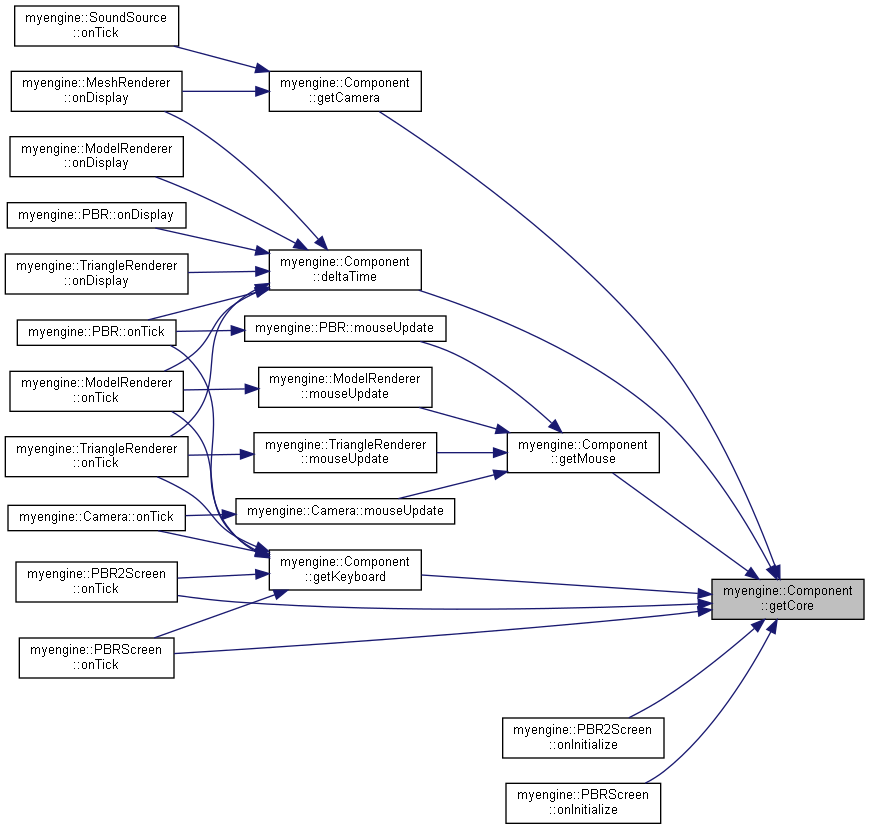
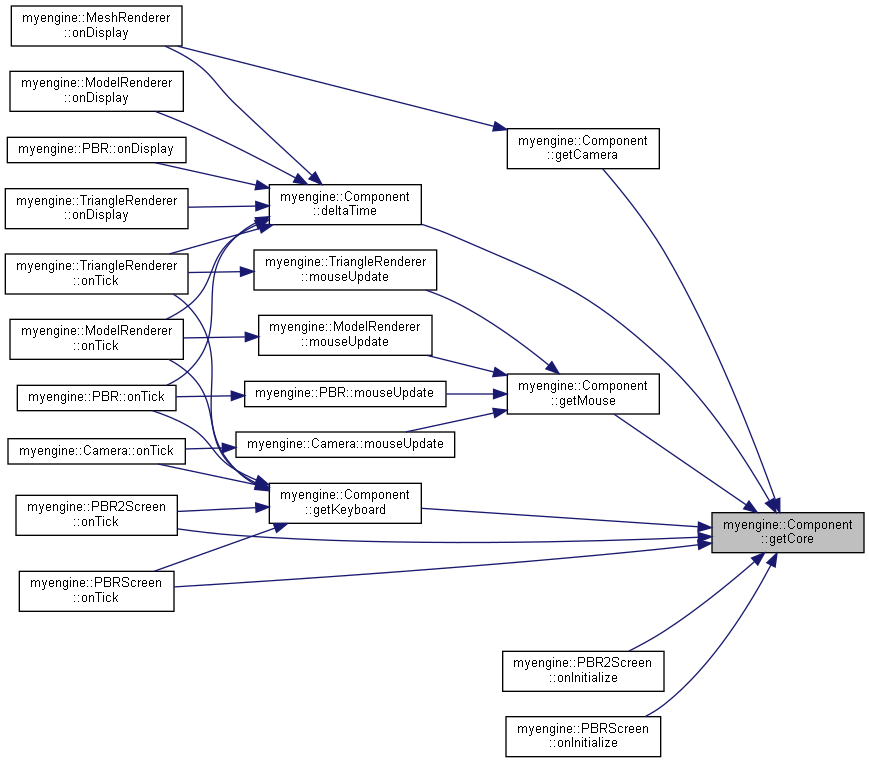
doxygen

diff --git a/doc/html/structmyengine_1_1_component.html b/doc/html/structmyengine_1_1_component.html
@@ -286,28 +286,27 @@ Here is the caller graph for this function:</div>
 <div class="dyncontent">
 <div class="center"><img src="structmyengine_1_1_component_a2b80c2d91dac8f429f6b6f6305d7c5be_icgraph.png" border="0" usemap="#astructmyengine_1_1_component_a2b80c2d91dac8f429f6b6f6305d7c5be_icgraph" alt=""/></div>
 <map name="astructmyengine_1_1_component_a2b80c2d91dac8f429f6b6f6305d7c5be_icgraph" id="astructmyengine_1_1_component_a2b80c2d91dac8f429f6b6f6305d7c5be_icgraph">
-<area shape="rect" title="Returns the Core." alt="" coords="712,579,864,620"/>
-<area shape="rect" href="structmyengine_1_1_component.html#a4e0612b358101d355cfdc455712c5136" title="Returns the deltaTime." alt="" coords="269,249,421,291"/>
-<area shape="rect" href="structmyengine_1_1_component.html#a3c4a94098f91b2602ce73a81d0bc9570" title="Returns the Camera." alt="" coords="269,71,421,112"/>
-<area shape="rect" href="structmyengine_1_1_component.html#a86618ca85aca087c0efa99970b5e095a" title="Returns the Keyboard." alt="" coords="269,549,421,591"/>
-<area shape="rect" href="structmyengine_1_1_p_b_r2_screen.html#af516398eee87a41129a2995677c443e1" title="Updates Screen." alt="" coords="16,561,177,603"/>
-<area shape="rect" href="structmyengine_1_1_p_b_r_screen.html#ad9af1fafe83d5bb4ae5e1fc37d2bc258" title="Updates Screen." alt="" coords="19,637,174,679"/>
-<area shape="rect" href="structmyengine_1_1_component.html#a6e32e07622ba5c510af149403b2176a4" title="Returns the Mouse." alt="" coords="507,432,659,473"/>
-<area shape="rect" href="structmyengine_1_1_p_b_r2_screen.html#a9ec551364dcded0adb868d64594775e6" title="Initialises the Screen." alt="" coords="503,717,664,759"/>
-<area shape="rect" href="structmyengine_1_1_p_b_r_screen.html#a0b32c3e3fd47f1e698b09b5233f15ceb" title="Initialises the Screen." alt="" coords="506,783,661,824"/>
-<area shape="rect" href="structmyengine_1_1_mesh_renderer.html#a3096e07211e99206afc00ef9c867abd3" title="Draws the model." alt="" coords="11,71,182,112"/>
-<area shape="rect" href="structmyengine_1_1_model_renderer.html#a2dab68b27698175ed5deff280184aeba" title="Draws the model." alt="" coords="10,136,183,177"/>
-<area shape="rect" href="structmyengine_1_1_p_b_r.html#a0316ec5798db766d49c8b18237f07878" title="Draws the model." alt="" coords="7,202,186,229"/>
-<area shape="rect" href="structmyengine_1_1_triangle_renderer.html#a6cb4252e76b0c719d3819cc5b6ca86a8" title="Draws the triangle." alt="" coords="5,253,188,295"/>
-<area shape="rect" href="structmyengine_1_1_model_renderer.html#ac1a09170155c3fddfe23ac24334fb689" title="The position of the model." alt="" coords="10,371,183,412"/>
-<area shape="rect" href="structmyengine_1_1_p_b_r.html#ac960a36c2b186613e28284ede02004bd" title="The position of the model." alt="" coords="17,319,176,346"/>
-<area shape="rect" href="structmyengine_1_1_triangle_renderer.html#a8772473eb0f65d036220b3f48f45f8ce" title="The position of the triangle." alt="" coords="5,436,188,477"/>
-<area shape="rect" href="structmyengine_1_1_sound_source.html#aa989aaadb1f186847e4700f5a1c62e8f" title="Updates the sound each frame." alt="" coords="15,5,179,47"/>
-<area shape="rect" href="structmyengine_1_1_camera.html#ab20ef0c683c1e07b8546a3ddf26f262b" title="Updates Camera Position." alt="" coords="8,505,185,531"/>
-<area shape="rect" href="structmyengine_1_1_camera.html#a49c54915080685ce75a9edcbd8f5aa0e" title="Updates Mouse Coordinates." alt="" coords="236,498,455,525"/>
-<area shape="rect" href="structmyengine_1_1_model_renderer.html#a853e29bd0aa9b73004ab46f105fcef20" title="Update mouse position." alt="" coords="259,367,432,408"/>
-<area shape="rect" href="structmyengine_1_1_p_b_r.html#afb06a60ab5f263b8caa91efd1f1285f7" title="Update mouse position." alt="" coords="245,315,446,342"/>
-<area shape="rect" href="structmyengine_1_1_triangle_renderer.html#a3ac2c021a5a1b280a7ef84056049b45a" title="Update mouse position." alt="" coords="254,432,437,473"/>
+<area shape="rect" title="Returns the Core." alt="" coords="712,512,864,553"/>
+<area shape="rect" href="structmyengine_1_1_component.html#a4e0612b358101d355cfdc455712c5136" title="Returns the deltaTime." alt="" coords="269,184,421,225"/>
+<area shape="rect" href="structmyengine_1_1_component.html#a3c4a94098f91b2602ce73a81d0bc9570" title="Returns the Camera." alt="" coords="507,128,659,169"/>
+<area shape="rect" href="structmyengine_1_1_component.html#a86618ca85aca087c0efa99970b5e095a" title="Returns the Keyboard." alt="" coords="269,483,421,524"/>
+<area shape="rect" href="structmyengine_1_1_p_b_r2_screen.html#af516398eee87a41129a2995677c443e1" title="Updates Screen." alt="" coords="16,495,177,536"/>
+<area shape="rect" href="structmyengine_1_1_p_b_r_screen.html#ad9af1fafe83d5bb4ae5e1fc37d2bc258" title="Updates Screen." alt="" coords="19,571,174,612"/>
+<area shape="rect" href="structmyengine_1_1_component.html#a6e32e07622ba5c510af149403b2176a4" title="Returns the Mouse." alt="" coords="507,373,659,415"/>
+<area shape="rect" href="structmyengine_1_1_p_b_r2_screen.html#a9ec551364dcded0adb868d64594775e6" title="Initialises the Screen." alt="" coords="503,651,664,692"/>
+<area shape="rect" href="structmyengine_1_1_p_b_r_screen.html#a0b32c3e3fd47f1e698b09b5233f15ceb" title="Initialises the Screen." alt="" coords="506,716,661,757"/>
+<area shape="rect" href="structmyengine_1_1_mesh_renderer.html#a3096e07211e99206afc00ef9c867abd3" title="Draws the model." alt="" coords="11,5,182,47"/>
+<area shape="rect" href="structmyengine_1_1_model_renderer.html#a2dab68b27698175ed5deff280184aeba" title="Draws the model." alt="" coords="10,71,183,112"/>
+<area shape="rect" href="structmyengine_1_1_p_b_r.html#a0316ec5798db766d49c8b18237f07878" title="Draws the model." alt="" coords="7,137,186,163"/>
+<area shape="rect" href="structmyengine_1_1_triangle_renderer.html#a6cb4252e76b0c719d3819cc5b6ca86a8" title="Draws the triangle." alt="" coords="5,188,188,229"/>
+<area shape="rect" href="structmyengine_1_1_model_renderer.html#ac1a09170155c3fddfe23ac24334fb689" title="The position of the model." alt="" coords="10,319,183,360"/>
+<area shape="rect" href="structmyengine_1_1_p_b_r.html#ac960a36c2b186613e28284ede02004bd" title="The position of the model." alt="" coords="17,385,176,411"/>
+<area shape="rect" href="structmyengine_1_1_triangle_renderer.html#a8772473eb0f65d036220b3f48f45f8ce" title="The position of the triangle." alt="" coords="5,253,188,295"/>
+<area shape="rect" href="structmyengine_1_1_camera.html#ab20ef0c683c1e07b8546a3ddf26f262b" title="Updates Camera Position." alt="" coords="8,438,185,465"/>
+<area shape="rect" href="structmyengine_1_1_camera.html#a49c54915080685ce75a9edcbd8f5aa0e" title="Updates Mouse Coordinates." alt="" coords="236,431,455,458"/>
+<area shape="rect" href="structmyengine_1_1_model_renderer.html#a853e29bd0aa9b73004ab46f105fcef20" title="Update mouse position." alt="" coords="259,315,432,356"/>
+<area shape="rect" href="structmyengine_1_1_p_b_r.html#afb06a60ab5f263b8caa91efd1f1285f7" title="Update mouse position." alt="" coords="245,381,446,407"/>
+<area shape="rect" href="structmyengine_1_1_triangle_renderer.html#a3ac2c021a5a1b280a7ef84056049b45a" title="Update mouse position." alt="" coords="254,249,437,291"/>
 </map>
 </div>
 
@@ -335,30 +334,29 @@ Here is the caller graph for this function:</div>
 <div class="dyncontent">
 <div class="center"><img src="structmyengine_1_1_component_af409385720cc0c533e8812e8857ba161_icgraph.png" border="0" usemap="#astructmyengine_1_1_component_af409385720cc0c533e8812e8857ba161_icgraph" alt=""/></div>
 <map name="astructmyengine_1_1_component_af409385720cc0c533e8812e8857ba161_icgraph" id="astructmyengine_1_1_component_af409385720cc0c533e8812e8857ba161_icgraph">
-<area shape="rect" title="Returns the Entity." alt="" coords="912,309,1064,351"/>
-<area shape="rect" href="structmyengine_1_1_component.html#a2b80c2d91dac8f429f6b6f6305d7c5be" title="Returns the Core." alt="" coords="712,421,864,463"/>
-<area shape="rect" href="structmyengine_1_1_component.html#a2b5712d1253884531aee523c1d277260" title="Returns the Transform." alt="" coords="269,188,421,229"/>
-<area shape="rect" href="structmyengine_1_1_component.html#a4e0612b358101d355cfdc455712c5136" title="Returns the deltaTime." alt="" coords="269,253,421,295"/>
-<area shape="rect" href="structmyengine_1_1_component.html#a3c4a94098f91b2602ce73a81d0bc9570" title="Returns the Camera." alt="" coords="269,71,421,112"/>
-<area shape="rect" href="structmyengine_1_1_component.html#a86618ca85aca087c0efa99970b5e095a" title="Returns the Keyboard." alt="" coords="269,553,421,595"/>
-<area shape="rect" href="structmyengine_1_1_p_b_r2_screen.html#af516398eee87a41129a2995677c443e1" title="Updates Screen." alt="" coords="16,651,177,692"/>
-<area shape="rect" href="structmyengine_1_1_p_b_r_screen.html#ad9af1fafe83d5bb4ae5e1fc37d2bc258" title="Updates Screen." alt="" coords="19,564,174,605"/>
-<area shape="rect" href="structmyengine_1_1_component.html#a6e32e07622ba5c510af149403b2176a4" title="Returns the Mouse." alt="" coords="507,421,659,463"/>
-<area shape="rect" href="structmyengine_1_1_p_b_r2_screen.html#a9ec551364dcded0adb868d64594775e6" title="Initialises the Screen." alt="" coords="503,356,664,397"/>
-<area shape="rect" href="structmyengine_1_1_p_b_r_screen.html#a0b32c3e3fd47f1e698b09b5233f15ceb" title="Initialises the Screen." alt="" coords="506,487,661,528"/>
-<area shape="rect" href="structmyengine_1_1_mesh_renderer.html#a3096e07211e99206afc00ef9c867abd3" title="Draws the model." alt="" coords="11,71,182,112"/>
-<area shape="rect" href="structmyengine_1_1_model_renderer.html#a2dab68b27698175ed5deff280184aeba" title="Draws the model." alt="" coords="10,201,183,243"/>
-<area shape="rect" href="structmyengine_1_1_p_b_r.html#a0316ec5798db766d49c8b18237f07878" title="Draws the model." alt="" coords="7,267,186,294"/>
-<area shape="rect" href="structmyengine_1_1_triangle_renderer.html#a6cb4252e76b0c719d3819cc5b6ca86a8" title="Draws the triangle." alt="" coords="5,136,188,177"/>
-<area shape="rect" href="structmyengine_1_1_model_renderer.html#ac1a09170155c3fddfe23ac24334fb689" title="The position of the model." alt="" coords="10,319,183,360"/>
-<area shape="rect" href="structmyengine_1_1_p_b_r.html#ac960a36c2b186613e28284ede02004bd" title="The position of the model." alt="" coords="17,385,176,411"/>
-<area shape="rect" href="structmyengine_1_1_triangle_renderer.html#a8772473eb0f65d036220b3f48f45f8ce" title="The position of the triangle." alt="" coords="5,436,188,477"/>
-<area shape="rect" href="structmyengine_1_1_sound_source.html#aa989aaadb1f186847e4700f5a1c62e8f" title="Updates the sound each frame." alt="" coords="15,5,179,47"/>
-<area shape="rect" href="structmyengine_1_1_camera.html#ab20ef0c683c1e07b8546a3ddf26f262b" title="Updates Camera Position." alt="" coords="8,502,185,529"/>
-<area shape="rect" href="structmyengine_1_1_camera.html#a49c54915080685ce75a9edcbd8f5aa0e" title="Updates Mouse Coordinates." alt="" coords="236,502,455,529"/>
-<area shape="rect" href="structmyengine_1_1_model_renderer.html#a853e29bd0aa9b73004ab46f105fcef20" title="Update mouse position." alt="" coords="259,319,432,360"/>
-<area shape="rect" href="structmyengine_1_1_p_b_r.html#afb06a60ab5f263b8caa91efd1f1285f7" title="Update mouse position." alt="" coords="245,385,446,411"/>
-<area shape="rect" href="structmyengine_1_1_triangle_renderer.html#a3ac2c021a5a1b280a7ef84056049b45a" title="Update mouse position." alt="" coords="254,436,437,477"/>
+<area shape="rect" title="Returns the Entity." alt="" coords="912,215,1064,256"/>
+<area shape="rect" href="structmyengine_1_1_component.html#a2b80c2d91dac8f429f6b6f6305d7c5be" title="Returns the Core." alt="" coords="712,335,864,376"/>
+<area shape="rect" href="structmyengine_1_1_component.html#a2b5712d1253884531aee523c1d277260" title="Returns the Transform." alt="" coords="269,123,421,164"/>
+<area shape="rect" href="structmyengine_1_1_component.html#a4e0612b358101d355cfdc455712c5136" title="Returns the deltaTime." alt="" coords="269,188,421,229"/>
+<area shape="rect" href="structmyengine_1_1_component.html#a3c4a94098f91b2602ce73a81d0bc9570" title="Returns the Camera." alt="" coords="507,152,659,193"/>
+<area shape="rect" href="structmyengine_1_1_component.html#a86618ca85aca087c0efa99970b5e095a" title="Returns the Keyboard." alt="" coords="269,488,421,529"/>
+<area shape="rect" href="structmyengine_1_1_p_b_r2_screen.html#af516398eee87a41129a2995677c443e1" title="Updates Screen." alt="" coords="16,499,177,540"/>
+<area shape="rect" href="structmyengine_1_1_p_b_r_screen.html#ad9af1fafe83d5bb4ae5e1fc37d2bc258" title="Updates Screen." alt="" coords="19,585,174,627"/>
+<area shape="rect" href="structmyengine_1_1_component.html#a6e32e07622ba5c510af149403b2176a4" title="Returns the Mouse." alt="" coords="507,400,659,441"/>
+<area shape="rect" href="structmyengine_1_1_p_b_r2_screen.html#a9ec551364dcded0adb868d64594775e6" title="Initialises the Screen." alt="" coords="503,217,664,259"/>
+<area shape="rect" href="structmyengine_1_1_p_b_r_screen.html#a0b32c3e3fd47f1e698b09b5233f15ceb" title="Initialises the Screen." alt="" coords="506,335,661,376"/>
+<area shape="rect" href="structmyengine_1_1_mesh_renderer.html#a3096e07211e99206afc00ef9c867abd3" title="Draws the model." alt="" coords="11,5,182,47"/>
+<area shape="rect" href="structmyengine_1_1_model_renderer.html#a2dab68b27698175ed5deff280184aeba" title="Draws the model." alt="" coords="10,136,183,177"/>
+<area shape="rect" href="structmyengine_1_1_p_b_r.html#a0316ec5798db766d49c8b18237f07878" title="Draws the model." alt="" coords="7,202,186,229"/>
+<area shape="rect" href="structmyengine_1_1_triangle_renderer.html#a6cb4252e76b0c719d3819cc5b6ca86a8" title="Draws the triangle." alt="" coords="5,71,188,112"/>
+<area shape="rect" href="structmyengine_1_1_model_renderer.html#ac1a09170155c3fddfe23ac24334fb689" title="The position of the model." alt="" coords="10,253,183,295"/>
+<area shape="rect" href="structmyengine_1_1_p_b_r.html#ac960a36c2b186613e28284ede02004bd" title="The position of the model." alt="" coords="17,319,176,346"/>
+<area shape="rect" href="structmyengine_1_1_triangle_renderer.html#a8772473eb0f65d036220b3f48f45f8ce" title="The position of the triangle." alt="" coords="5,371,188,412"/>
+<area shape="rect" href="structmyengine_1_1_camera.html#ab20ef0c683c1e07b8546a3ddf26f262b" title="Updates Camera Position." alt="" coords="8,437,185,463"/>
+<area shape="rect" href="structmyengine_1_1_camera.html#a49c54915080685ce75a9edcbd8f5aa0e" title="Updates Mouse Coordinates." alt="" coords="236,437,455,463"/>
+<area shape="rect" href="structmyengine_1_1_model_renderer.html#a853e29bd0aa9b73004ab46f105fcef20" title="Update mouse position." alt="" coords="259,253,432,295"/>
+<area shape="rect" href="structmyengine_1_1_p_b_r.html#afb06a60ab5f263b8caa91efd1f1285f7" title="Update mouse position." alt="" coords="245,319,446,346"/>
+<area shape="rect" href="structmyengine_1_1_triangle_renderer.html#a3ac2c021a5a1b280a7ef84056049b45a" title="Update mouse position." alt="" coords="254,371,437,412"/>
 </map>
 </div>
 

diff --git a/doc/html/structmyengine_1_1_sound_source.html b/doc/html/structmyengine_1_1_sound_source.html
@@ -242,7 +242,7 @@ Here is the caller graph for this function:</div>
 <area shape="rect" href="structmyengine_1_1_sound_source.html#ad0b2246dee3d38554e5519e8dfa3c14a" title="Sets the volume." alt="" coords="217,463,381,504"/>
 <area shape="rect" href="structmyengine_1_1_sound_source.html#aa38c3ef7844915e47d13d094d8f8d0f7" title="Stops the playing audio." alt="" coords="217,528,381,569"/>
 <area shape="rect" href="structmyengine_1_1_sound_source.html#a3df03eb105f67403b1e423b3a9d555f4" title="Makes sure the sound stops playing once destroyed." alt="" coords="217,593,381,635"/>
-<area shape="rect" href="structmyengine_1_1_sound_source.html#aa989aaadb1f186847e4700f5a1c62e8f" title="Updates the sound each frame." alt="" coords="5,300,169,341"/>
+<area shape="rect" href="structmyengine_1_1_sound_source.html#aa989aaadb1f186847e4700f5a1c62e8f" title="Updates the sound each frame." alt="" coords="5,397,169,439"/>
 </map>
 </div>
 
@@ -322,13 +322,9 @@ Here is the call graph for this function:</div>
 <div class="dyncontent">
 <div class="center"><img src="structmyengine_1_1_sound_source_aa989aaadb1f186847e4700f5a1c62e8f_cgraph.png" border="0" usemap="#astructmyengine_1_1_sound_source_aa989aaadb1f186847e4700f5a1c62e8f_cgraph" alt=""/></div>
 <map name="astructmyengine_1_1_sound_source_aa989aaadb1f186847e4700f5a1c62e8f_cgraph" id="astructmyengine_1_1_sound_source_aa989aaadb1f186847e4700f5a1c62e8f_cgraph">
-<area shape="rect" title="Updates the sound each frame." alt="" coords="5,71,169,112"/>
-<area shape="rect" href="structmyengine_1_1_component.html#a3c4a94098f91b2602ce73a81d0bc9570" title="Returns the Camera." alt="" coords="223,5,375,47"/>
-<area shape="rect" href="structmyengine_1_1_sound_source.html#a8a3a97d5d44994d88ab8d5912f0f4828" title="Sets the listener." alt="" coords="217,71,381,112"/>
-<area shape="rect" href="structmyengine_1_1_sound_source.html#a97b79c87362c9270d0139d2357c002e8" title="Sets the position." alt="" coords="217,136,381,177"/>
-<area shape="rect" href="structmyengine_1_1_component.html#a2b80c2d91dac8f429f6b6f6305d7c5be" title="Returns the Core." alt="" coords="435,5,587,47"/>
-<area shape="rect" href="structmyengine_1_1_component.html#af409385720cc0c533e8812e8857ba161" title="Returns the Entity." alt="" coords="641,5,793,47"/>
-<area shape="rect" href="structmyengine_1_1_sound_source.html#ada3259fe44a9b27738e6c4d95b092a04" title="Error checking for audio." alt="" coords="429,103,593,144"/>
+<area shape="rect" title="Updates the sound each frame." alt="" coords="5,5,169,47"/>
+<area shape="rect" href="structmyengine_1_1_sound_source.html#a97b79c87362c9270d0139d2357c002e8" title="Sets the position." alt="" coords="217,5,381,47"/>
+<area shape="rect" href="structmyengine_1_1_sound_source.html#ada3259fe44a9b27738e6c4d95b092a04" title="Error checking for audio." alt="" coords="429,5,593,47"/>
 </map>
 </div>
 
